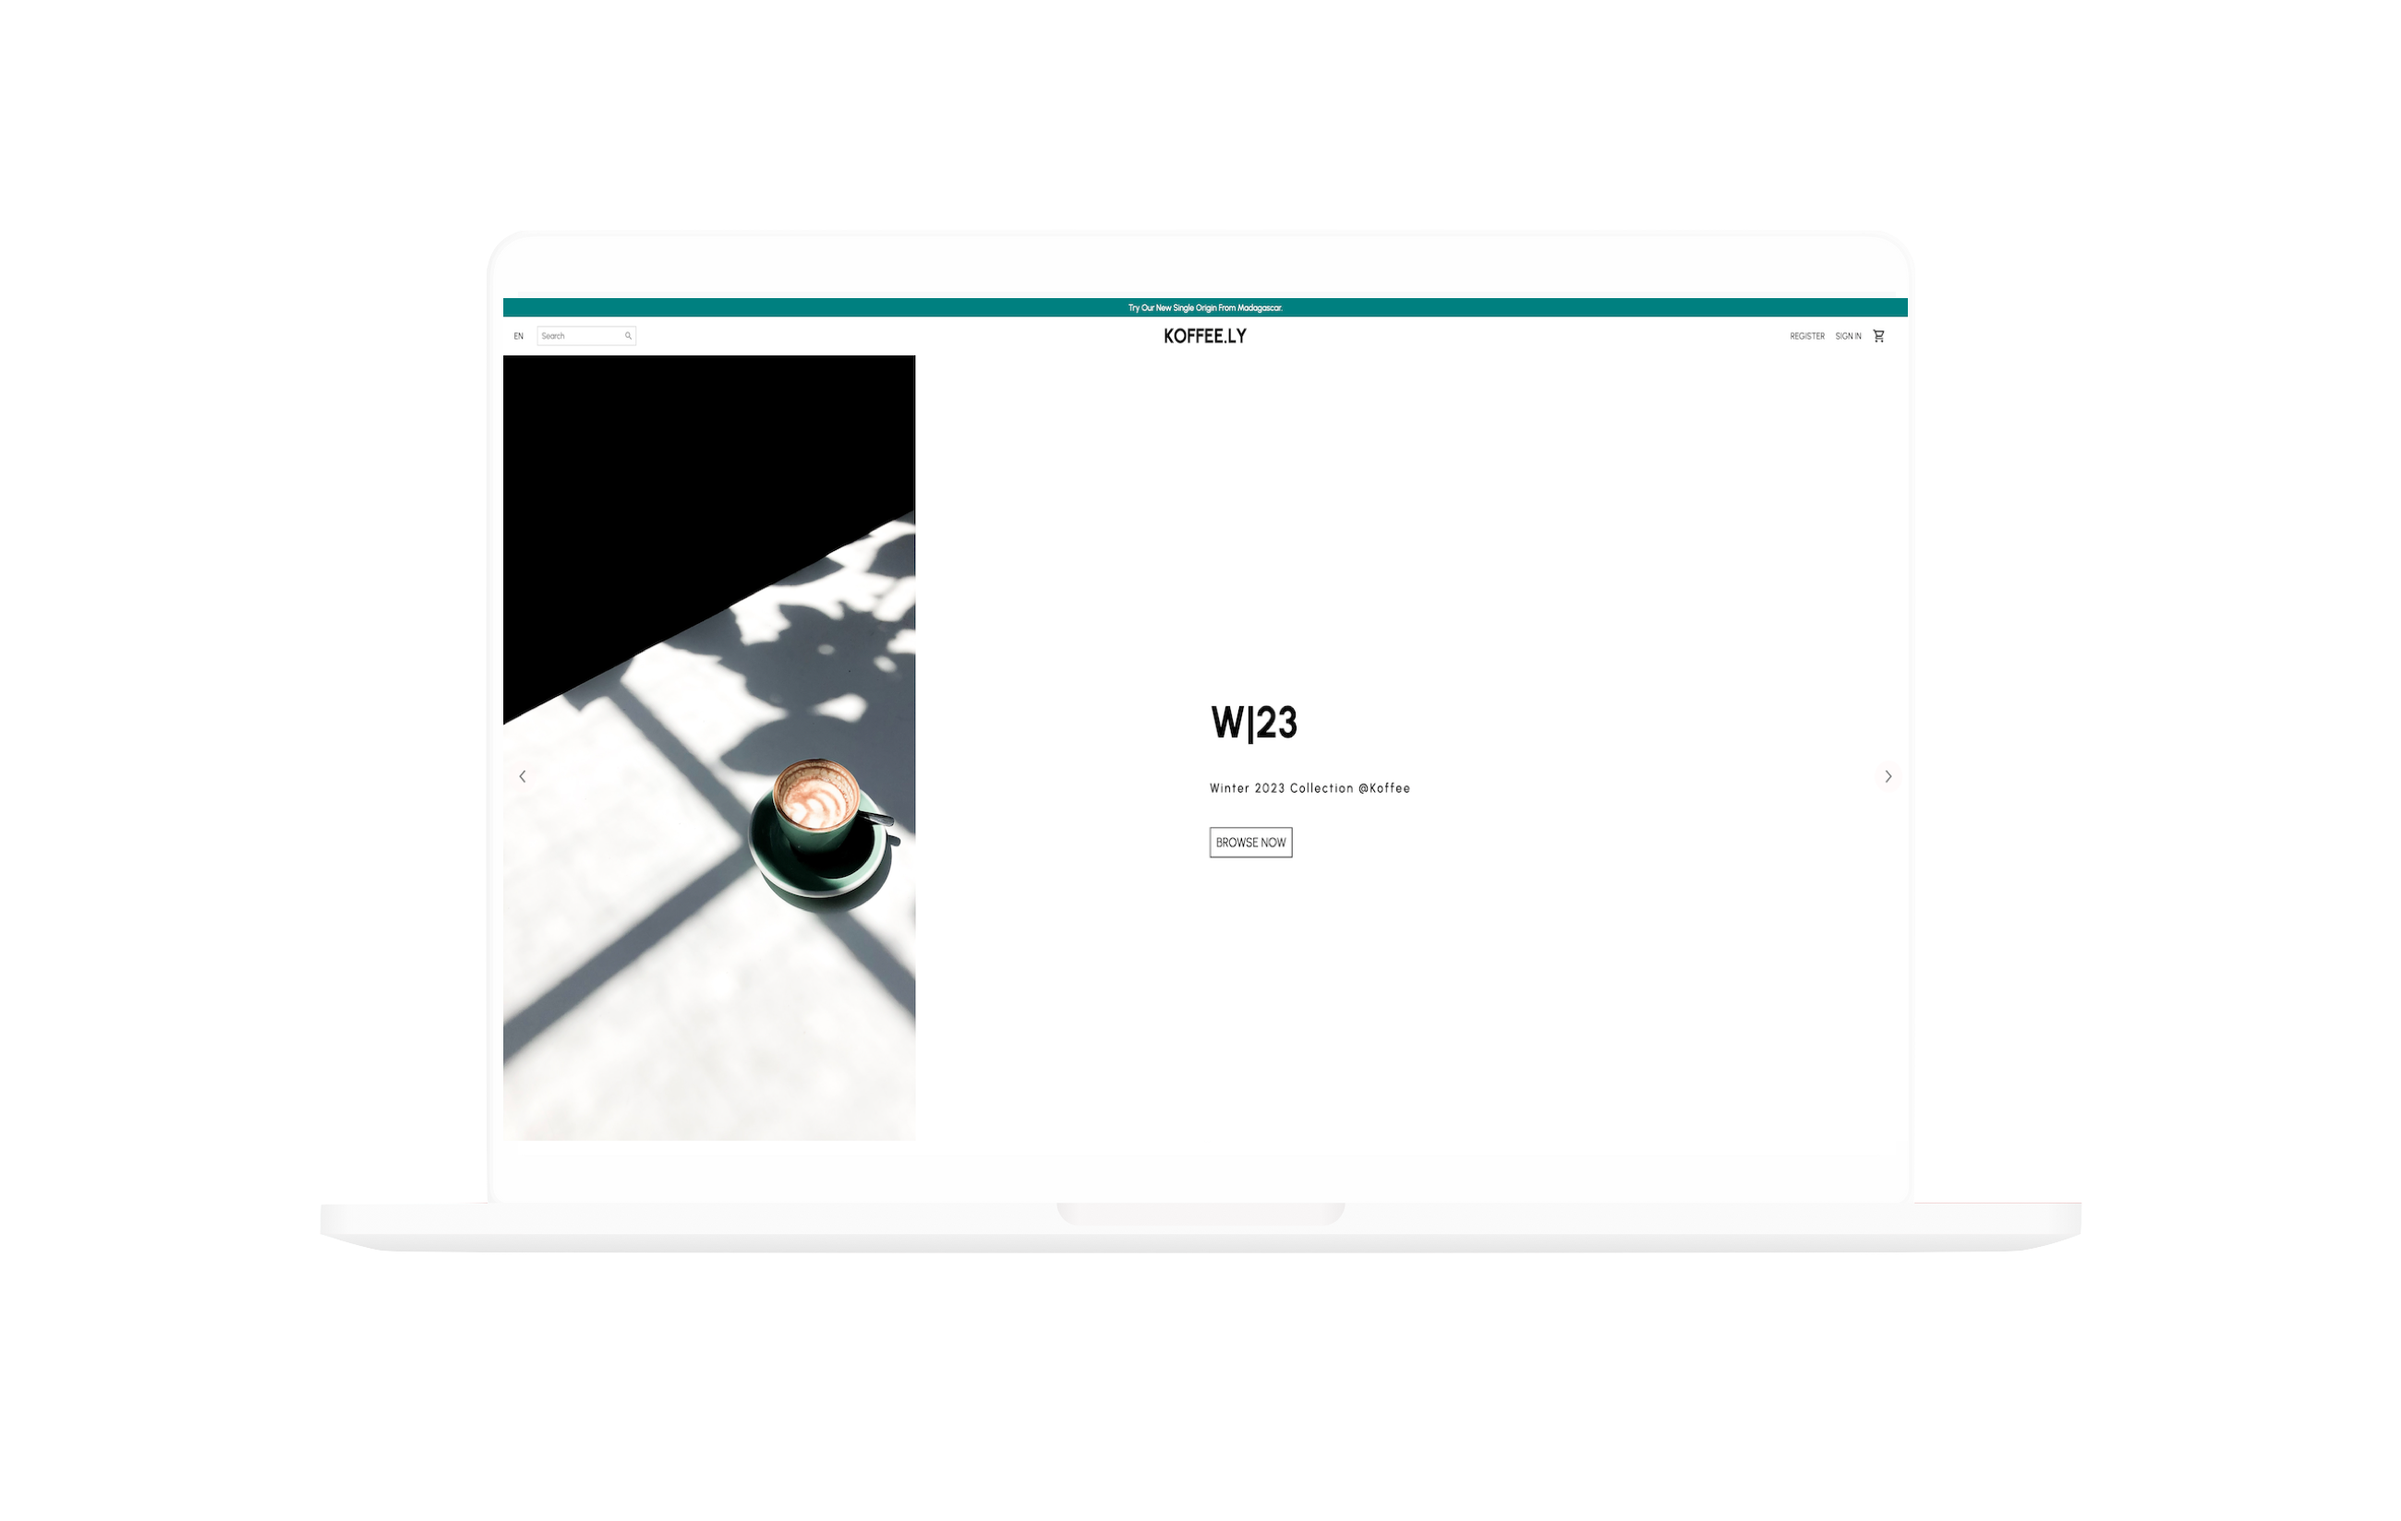
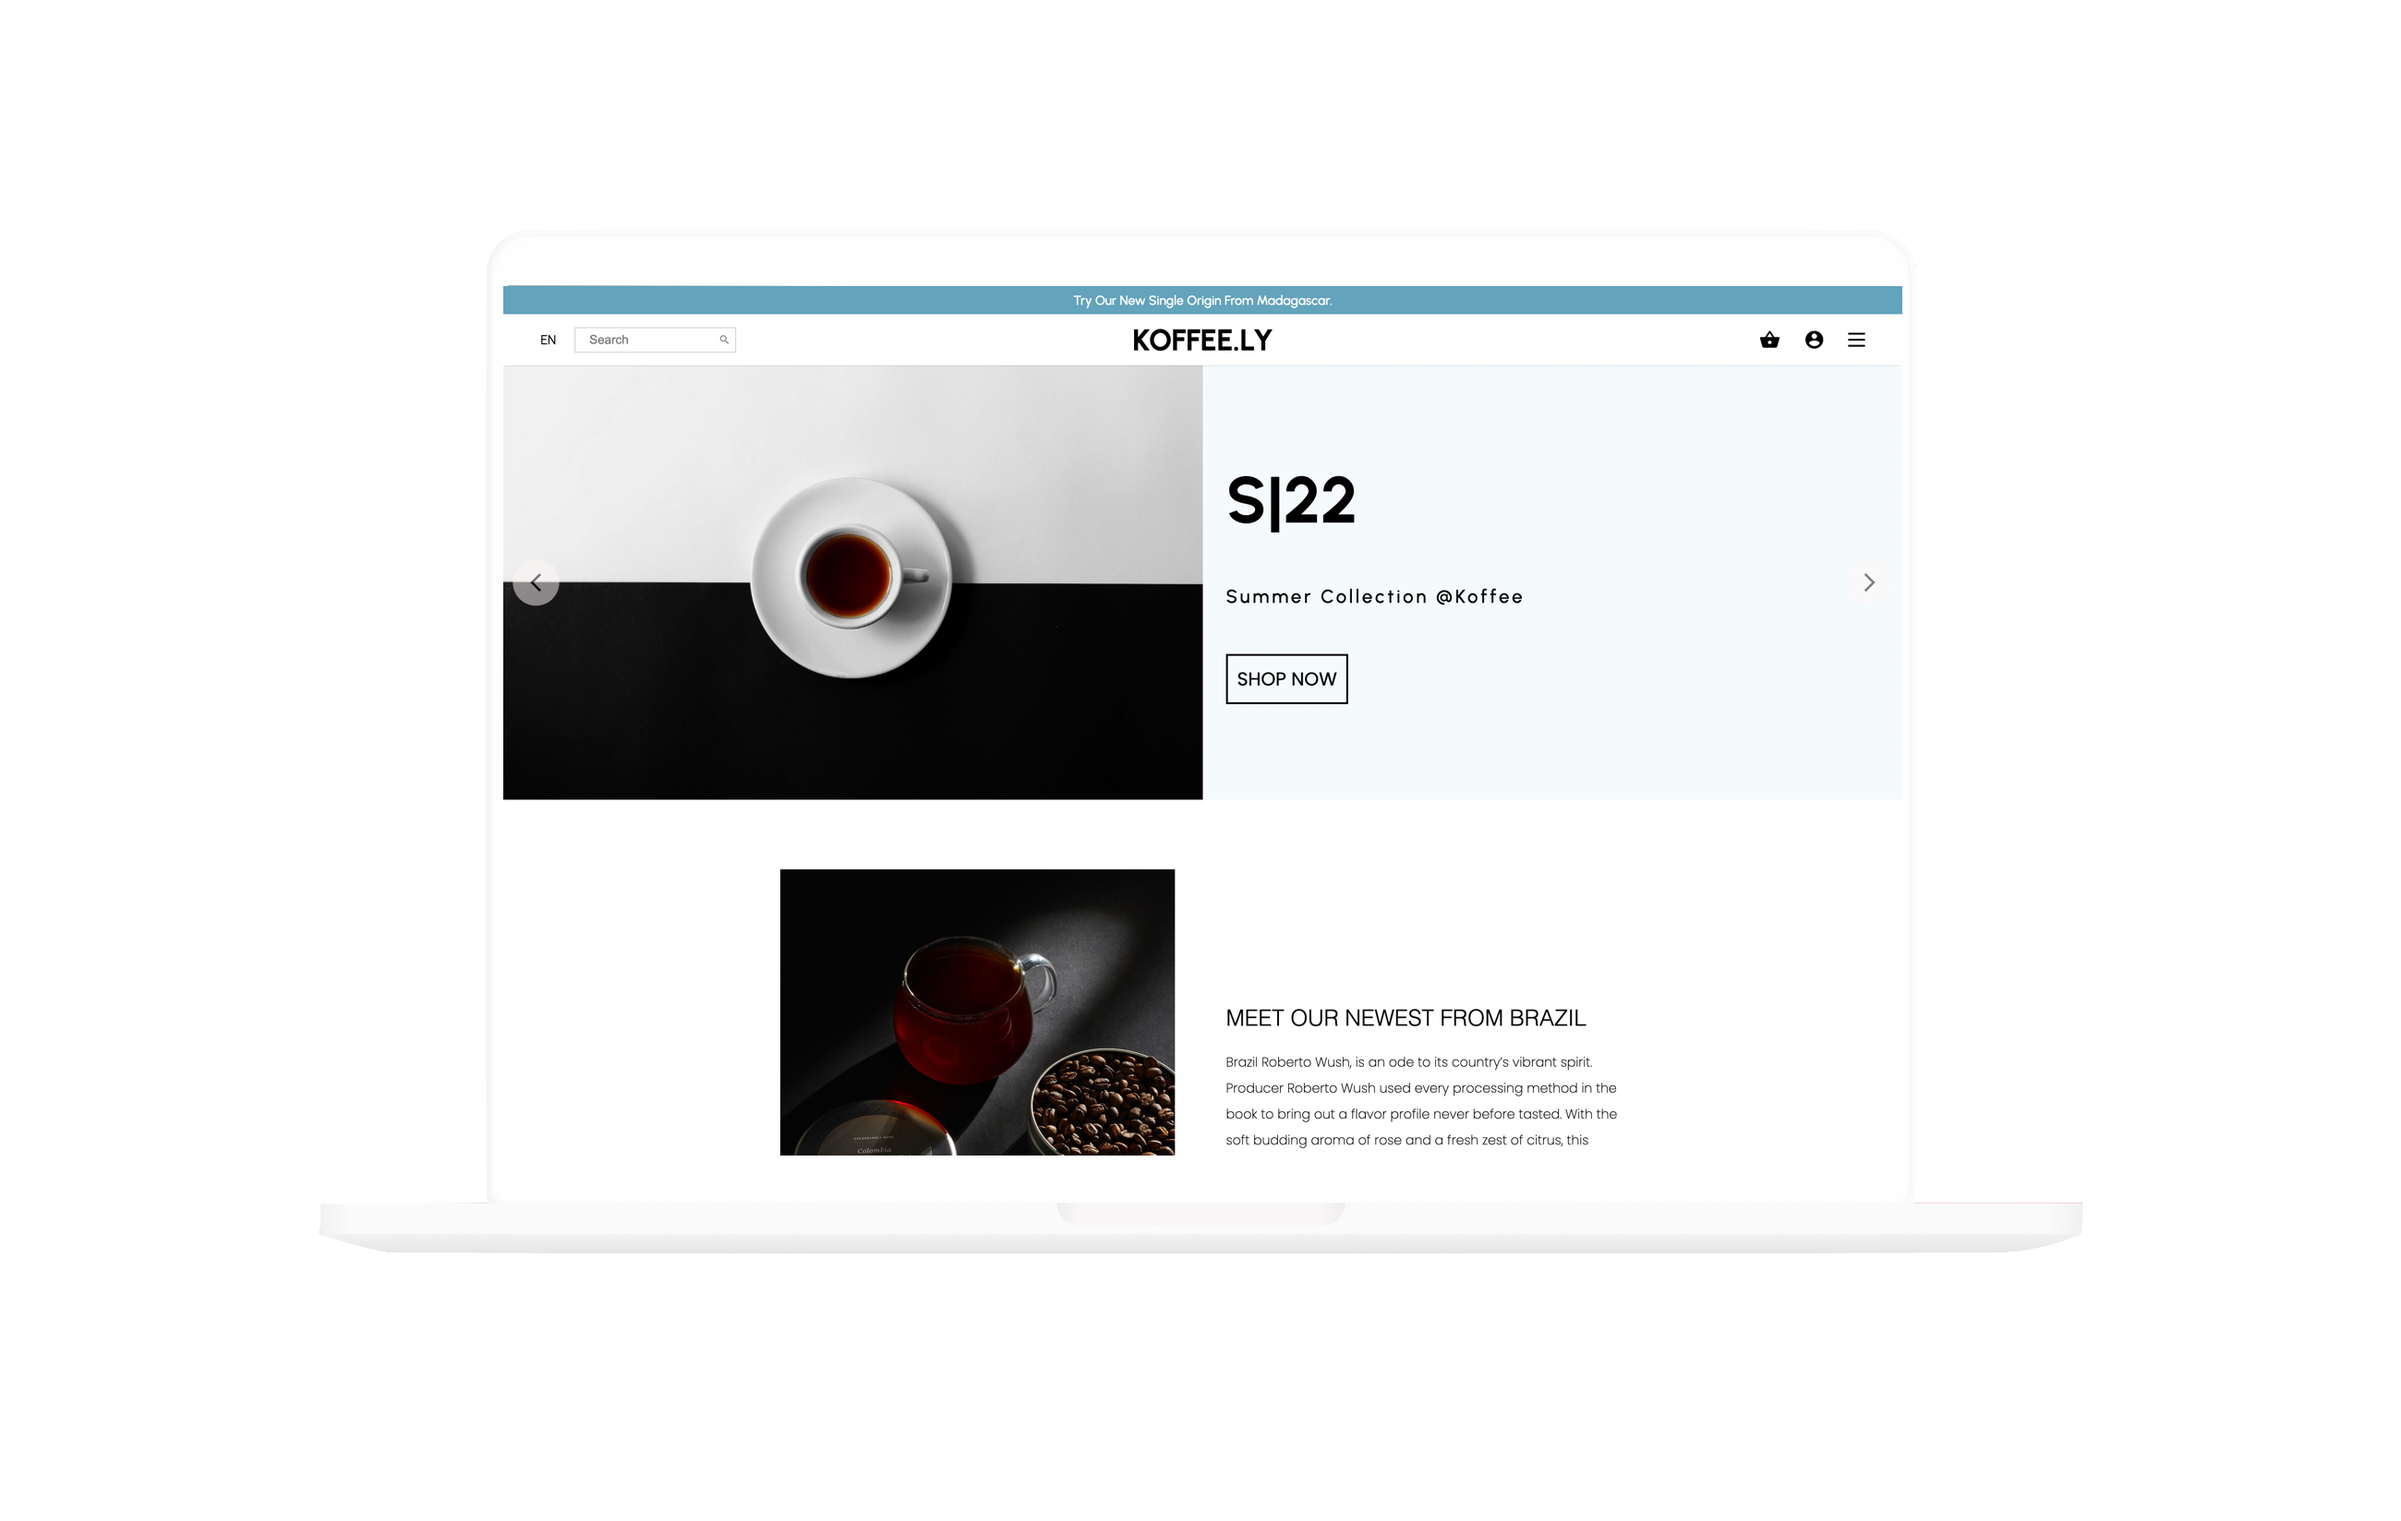
update hero component and projects

Changed region(s): [[0.1869, 0.1857, 0.81, 0.7737]]

diff --git a/client/src/constants/projects.js b/client/src/constants/projects.js
@@ -13,32 +13,32 @@ export const projects = [
         description: "Ever wondered about asado (barbeque) in Buenos Aires? Asador is all about sharing the joy of the best parrillas (steakhouses). Users are greeted with a live map with pins. Signing up for an account allows users to pin their favorite parrillas.", 
         buttons: ["React", "Redux", "Sass", "Express", "JWT", "MapboxGL API", "MongoDB", "Netlify"],
         backgroundColor: "var(--raisin-black)", 
-        liveSite: "https://asador.netlify.app/about", 
+        liveSite: "https://asador.netlify.app", 
         githubRepo: "https://github.com/danveb/asador.ly", 
         target: "_blank", 
         rel: "noreferrer noopener", 
     }, 
     {
         id: 2, 
-        img: koffee, 
-        title: "koffee.ly", 
-        description: "A clean and modern React app designed for an upcoming coffee shop in town. Users can create an account browse a selection of classic coffee products and check out their favorite coffee drinks. Implemented with Stripe for payment. Work in progress!", 
-        buttons: ["React", "Redux", "Styled Components", "Express", "JWT", "Stripe API", "MongoDB", "Netlify"],
-        backgroundColor: "var(--powder-blue)", 
-        liveSite: "TBA", 
-        githubRepo: "https://github.com/danveb/koffee.ly", 
+        img: bobaLife, 
+        title: "bobaLife", 
+        description: "Who enjoys sipping an ice-cold boba milk tea at any time of the day? bobaLife is a personal website I designed for a potential side-biz opportunity. This app includes React Redux and features JWT and Auth on the backend. Work in progress.", 
+        buttons: ["React", "Redux", "Sass", "Express", "JWT", "MongoDB", "Netlify"], 
+        backgroundColor: "var(--fuzzy-wuzzy)", 
+        liveSite: "https://bobalife.netlify.app", 
+        githubRepo: "https://github.com/danveb/bobalife", 
         target: "_blank", 
         rel: "noreferrer noopener", 
     }, 
     {
         id: 3, 
-        img: bobaLife, 
-        title: "bobaLife", 
-        description: "Who enjoys sipping an ice-cold boba milk tea at any time of the day? bobaLife is a personal website I designed for a potential side-biz opportunity. This app includes React Redux and is scalable. Still mid-development; work in progress.", 
-        buttons: ["React", "Sass", "Express", "JWT", "MongoDB", "Netlify"], 
-        backgroundColor: "var(--fuzzy-wuzzy)", 
-        liveSite: "https://bobalife.netlify.app", 
-        githubRepo: "https://github.com/danveb/bobalife", 
+        img: koffee, 
+        title: "koffee.ly", 
+        description: "An e-commerce website designed for a fictitious coffee shop in town. Browse a selection of classic coffee products and accessories while enjoying an ice-cold coffee. Currently this app is in development stage as I continue to build functionalities. Work in progress!", 
+        buttons: ["React", "Redux", "Styled Components", "Express", "JWT", "MongoDB"],
+        backgroundColor: "var(--powder-blue)", 
+        liveSite: "", 
+        githubRepo: "https://github.com/danveb/koffee.ly", 
         target: "_blank", 
         rel: "noreferrer noopener", 
     }, 
@@ -47,7 +47,7 @@ export const projects = [
         img: ioniq5, 
         title: "ioniq5 Lookup", 
         description: "App designed for users who want to search deliveries of 2022 Hyundai IONIQ 5 to local dealerships. User can fill in the zipcode and desired radius (in miles). Data is fetched from Hyundai USA's API and key details are displayed on a table.", 
-        buttons: ["React", "Sass", "Express", "Hyundai USA API", "Netlify"], 
+        buttons: ["React", "Sass", "Material UI", "Express", "Hyundai USA API", "Netlify"], 
         backgroundColor: "var(--ny-pink)", 
         liveSite: "https://ioniq5-lookup.netlify.app/", 
         githubRepo: "https://github.com/danveb/ioniq5", 
@@ -69,7 +69,7 @@ export const projects = [
     {
         id: 6, 
         img: laptopMain, 
-        title: "More Projects on GitHub", 
+        title: "Check my GitHub", 
         description: "Check my GitHub link to view more projects where I continue to build user-focused apps. Follow the link below!", 
         buttons: [], 
         backgroundColor: "var(--maximum-blue)", 

diff --git a/client/src/components/Projects/Projects.scss b/client/src/components/Projects/Projects.scss
@@ -17,7 +17,8 @@
             justify-content: center; 
             align-items: center; 
             flex-direction: column; 
-            width: 500px; 
+            width: 450px;
+            height: 100%;  
             margin: 30px; 
             overflow: hidden; 
             box-shadow: 0 0 15px -5px; 
@@ -30,11 +31,14 @@
             }
 
             .image-container {
+                display: flex; 
+                width: 100%; 
+                height: 100%; 
                 
                 img {
                     height: auto; 
                     width: 100%; 
-                    object-fit: contain; 
+                    object-fit: cover; 
                     overflow: hidden; 
                 }
             }

diff --git a/client/src/constants/logos.js b/client/src/constants/logos.js
@@ -6,8 +6,6 @@ import express from "../assets/logos/express.png";
 import mongoDB from "../assets/logos/mongoDB.png"; 
 import psql from "../assets/logos/psql.png"; 
 import sass from "../assets/logos/sass.png";  
-import jest from "../assets/logos/jest.png";  
-import jasmine from "../assets/logos/jasmine.png"
 
 export const logos = [
     {
@@ -57,17 +55,5 @@ export const logos = [
         text: "mongoDB", 
         img: mongoDB, 
         alt: "mongoDB logo", 
-    }, 
-    {
-        id: 9, 
-        text: "jest", 
-        img: jest, 
-        alt: "jest logo", 
-    }, 
-    {
-        id: 10, 
-        text: "jasmine", 
-        img: jasmine, 
-        alt: "jasmine logo", 
     }, 
 ]; 

diff --git a/client/src/components/Hero/Hero.scss b/client/src/components/Hero/Hero.scss
@@ -167,9 +167,33 @@
                 }
 
                 @media screen and(max-width: 480px) {
-                    width: 25vh; 
+                    width: 35vh; 
                 }
             }
         }
+
+        .scroll-arrow { 
+            position: absolute; 
+            bottom: 50px; 
+            left: 48%; 
+            transform: translateX(-50%); 
+            animation: fadeBounce 2.3s infinite; 
+        }
+    }
+}
+
+@keyframes fadeBounce {
+    0%, 
+    20%, 
+    50%, 
+    80%, 
+    100% {
+        opacity: 0; 
+        transform: translateY(-20px); 
+    }
+
+    40% {
+        opacity: 1; 
+        transform: translateY(0); 
     }
 }

diff --git a/client/src/components/Hero/Hero.jsx b/client/src/components/Hero/Hero.jsx
@@ -22,6 +22,16 @@ const Hero = () => {
                 <div className="hero-laptop">
                     <img src={laptop} alt="laptop hero" />
                 </div>
+                <div className="scroll-arrow">
+                <svg width="30px" height="30px">
+                    <path
+                        stroke="#ffffff"
+                        fill="none"
+                        strokeWidth="2px"
+                        d="M2.000,5.000 L15.000,18.000 L28.000,5.000 "
+                    ></path>
+                </svg>
+                </div>
             </div>
         </div>
     )
